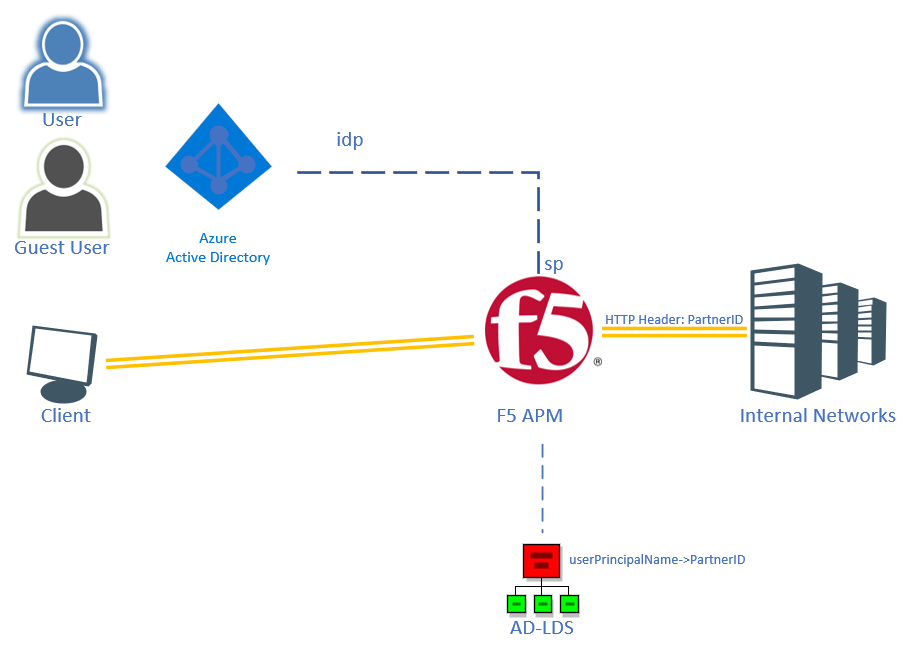
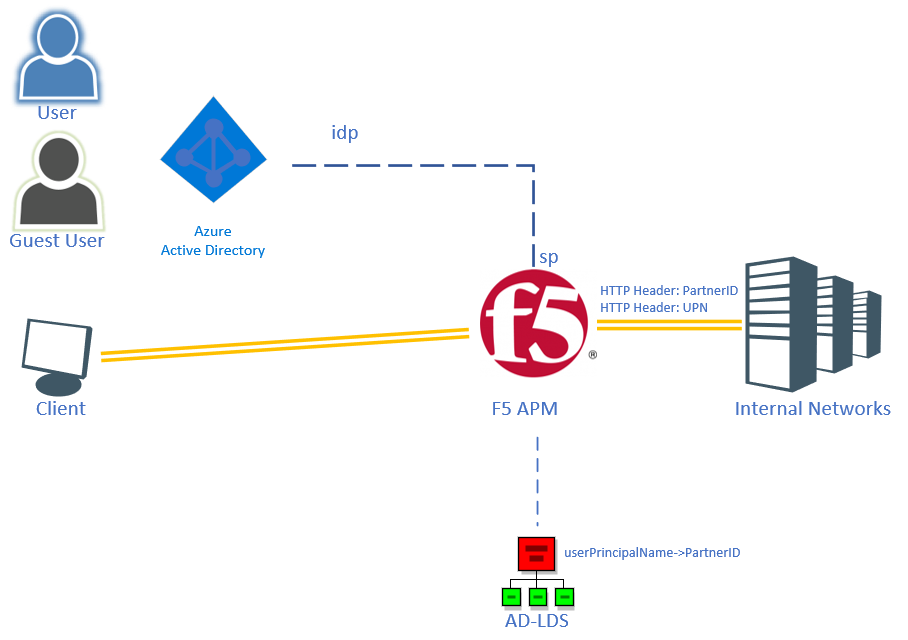
changes to code

diff --git a/f5-advanced-header.md b/f5-advanced-header.md
@@ -45,7 +45,7 @@ For F5 to be able to query our LDAP store it needs to have a connection to the L
 ![F5AdvancedHeaderLDAPServer](./images/5.f5headerLDAPserver.PNG)
 
 ## Adding LDAP query to Access Profile
-One the LDAP server is configured it can be added to the Access Profile to retrieve additional information for the logged-in user.
+Once the LDAP server is configured it can be added to the Access Profile to retrieve additional information for the logged-in user.
 1. Go to **Access >> Profiles / Policies : Access Profiles (Per-Session Policies)** and click the earlier created (`<Header App>`) access profile
 1. Click **Edit** under the Per-Session Policy column
 1. A new window will open with the Access Policy showing `<start>` + `<SAML auth>` - Successful - `<Allow>` | - fallback - `<Deny>`
@@ -90,21 +90,24 @@ when RULE_INIT {
     set static::debug 0
 }
 when ACCESS_ACL_ALLOWED {
+
 set PARTNERID [ACCESS::session data get "session.ldap.last.attr.PartnerID"]
 set UPN [ACCESS::session data get "session.saml.last.identity"]
 
 if { $static::debug } { log local0. "PARTNERID = $PARTNERID" }
-if { !([HTTP::header exists "PARTNERID"]) } {
-    HTTP::header insert "PARTNERID" $PARTNERID
-    }else{
-    HTTP::header replace "PARTNERID" $PARTNERID
-    }
 if { $static::debug } { log local0. "UPN = $UPN" }
-if { !([HTTP::header exists "UPN"]) } {
-    HTTP::header insert "UPN" $UPN
-    }else{
+
+  if {!([HTTP::header exists "PARTNERID"])} { 
+    HTTP::header insert "PARTNERID" $PARTNERID 
+  } else {
+    HTTP::header replace "PARTNERID" $PARTNERID
+  }
+
+  if {!([HTTP::header exists "UPN"])} { 
+    HTTP::header insert "UPN" $UPN 
+  } else {
     HTTP::header replace "UPN" $UPN
-    }
+  }
 }
 ```
 
